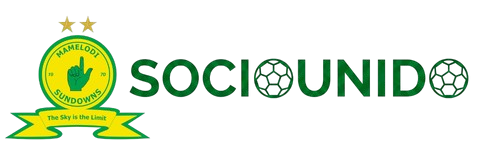
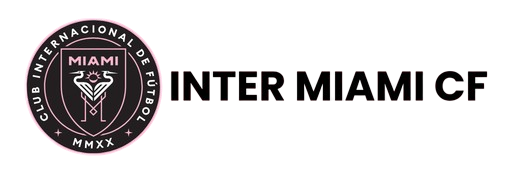
feat: colores y estilos del Inter Miami

Changed region(s): [[0.0, 0.1032, 0.9658, 0.9032]]

diff --git a/src/styles/tokens.css b/src/styles/tokens.css
@@ -3,26 +3,27 @@
   color-scheme: light;
 
   /* Colors */
-  /* Paleta de club (rama demo): Mamelodi Sundowns — #FFDC00 / #039F5D / #FFD25A.
+  /* Paleta de club (rama demo): Inter Miami CF — #231F20 / #F7B5CD / #FFFFFF.
      Ver nota "Colores por club (rama demo)" más abajo en el CLAUDE.md de este
      repo. Solo los 4 tokens de marca (text-primary/border-strong, accent,
      accent-hover) llevan el color de club exacto — el resto de la paleta son
-     grises con temperatura dorada en vez de neutros puros, pero sin
+     grises con temperatura rosada en vez de neutros puros, pero sin
      saturación de marca (misma convención que WebApp/aplicacion). */
-  --color-text-primary: #0a6b3f;
+  --color-text-primary: #231f20;
   --color-text-secondary: #5c7285;
-  --color-bg: #f8f6f1;
-  --color-surface: #fdfdfc;
-  --color-border: #ebe9e5;
-  --color-border-medium: #e4e0d8;
-  --color-border-strong: #0a6b3f;
-  --color-border-light: #f2f0ee;
-  --color-accent: #ffdc00;
-  --color-accent-hover: #ffd25a;
+  --color-bg: #f1dfe7;
+  --color-surface: #fdfcfc;
+  --color-border: #ebe5e7;
+  --color-border-medium: #e4d8dc;
+  --color-border-strong: #231f20;
+  --color-border-light: #f2eeef;
+  --color-accent: #f7b5cd;
+  --color-accent-hover: #ffffff;
+  --color-accent-dark: #d36990;
   --color-danger: #c0392b;
   --color-danger-hover: #96281b;
-  --color-row-hover: #f8f8f6;
-  --color-bg-subtle: #f3f1ed;
+  --color-row-hover: #f8f6f7;
+  --color-bg-subtle: #edd9e0;
   --color-overlay: rgba(0, 0, 0, 0.4);
 
   /* Texto fijo sobre botones de color sólido (ej. danger) */

diff --git a/src/pages/LoginPage/LoginEmpleado.jsx b/src/pages/LoginPage/LoginEmpleado.jsx
@@ -135,7 +135,7 @@ export function LoginEmpleado({ irAReclamo, onIngresoCompleto = () => {} }) {
           initial={{ height: '100%' }}
           animate={
             exiting
-              ? { height: '100%', backgroundColor: ['#039F5D', '#4A4A4A', '#F5F5F5'] }
+              ? { height: '100%', backgroundColor: ['#F7B5CD', '#4A4A4A', '#F5F5F5'] }
               : { height: animStarted ? '30%' : '100%' }
           }
           transition={
@@ -156,6 +156,14 @@ export function LoginEmpleado({ irAReclamo, onIngresoCompleto = () => {} }) {
             animate={{ scale: 1, opacity: 1 }}
             transition={{ duration: 0.5, ease: 'easeOut' }}
           />
+          <motion.p
+            className="login-band-caption"
+            initial={{ opacity: 0, y: 10 }}
+            animate={{ opacity: 1, y: 0 }}
+            transition={{ duration: 0.5, ease: 'easeOut', delay: 0.2 }}
+          >
+            By SocioUnido
+          </motion.p>
         </motion.div>
       )}
 

diff --git a/src/control-theme.css b/src/control-theme.css
@@ -27,14 +27,32 @@ body {
   min-height: 140px;
   background-color: var(--color-text-primary);
   display: flex;
+  flex-direction: column;
   justify-content: center;
   align-items: center;
+  gap: var(--space-2);
   z-index: 50;
 }
 
 .login-band-logo {
-  width: clamp(160px, 60vw, 500px);
-  max-width: 100%;
+  width: auto;
+  height: auto;
+  max-width: clamp(160px, 70vw, 420px);
+  max-height: 70%;
+}
+
+.login-band-caption {
+  margin: 0;
+  padding: 3px 10px;
+  border-radius: var(--radius-full);
+  /* fondo oscuro translúcido: el caption se mantiene legible durante toda la
+     transición de color del band al entrar a la app (negro -> gris -> casi blanco) */
+  background-color: rgba(35, 31, 32, 0.4);
+  font-size: 0.75rem;
+  font-weight: 600;
+  letter-spacing: 0.08em;
+  text-transform: uppercase;
+  color: var(--color-surface);
 }
 
 .login-form-wrapper {

diff --git a/src/pages/ControlAccesoPage/ControlAccesoPage.css b/src/pages/ControlAccesoPage/ControlAccesoPage.css
@@ -17,9 +17,9 @@
   gap: var(--space-4);
   padding: var(--space-5) var(--space-5) var(--space-6);
   background:
-    radial-gradient(120% 140% at 12% -10%, #4a3a1a 0%, transparent 55%),
-    radial-gradient(120% 140% at 88% 110%, #4a3a1a 0%, transparent 55%),
-    linear-gradient(155deg, #0d2318 0%, #07140f 42%, #040a10 100%);
+    radial-gradient(120% 140% at 12% -10%, #4a1a2b 0%, transparent 55%),
+    radial-gradient(120% 140% at 88% 110%, #4a1a2b 0%, transparent 55%),
+    linear-gradient(155deg, #230d15 0%, #14070c 42%, #100408 100%);
   color: var(--color-surface);
   border-radius: var(--radius-xl);
   box-shadow: 0 14px 30px -14px rgba(0, 0, 0, 0.55), 0 2px 6px rgba(0, 0, 0, 0.25);

diff --git a/src/components/WelcomeCard/WelcomeCard.css b/src/components/WelcomeCard/WelcomeCard.css
@@ -3,9 +3,9 @@
   overflow: hidden;
   isolation: isolate;
   background:
-    radial-gradient(120% 140% at 12% -10%, #4a3a1a 0%, transparent 55%),
-    radial-gradient(120% 140% at 88% 110%, #4a3a1a 0%, transparent 55%),
-    linear-gradient(155deg, #0d2318 0%, #07140f 42%, #040a10 100%);
+    radial-gradient(120% 140% at 12% -10%, #4a1a2b 0%, transparent 55%),
+    radial-gradient(120% 140% at 88% 110%, #4a1a2b 0%, transparent 55%),
+    linear-gradient(155deg, #230d15 0%, #14070c 42%, #100408 100%);
   color: var(--color-surface);
   border-radius: var(--radius-xl);
   padding: var(--space-6);

diff --git a/src/components/Header/Header.css b/src/components/Header/Header.css
@@ -17,7 +17,7 @@
   position: absolute;
   left: 50%;
   transform: translateX(-50%);
-  height: 80px;
+  height: 90px;
   width: auto;
 }
 
@@ -49,6 +49,6 @@
 
 @media (max-width: 480px) {
   .app-header-logo {
-    height: 44px;
+    height: 75px;
   }
 }

diff --git a/src/pages/HomePage/HomePage.css b/src/pages/HomePage/HomePage.css
@@ -37,7 +37,7 @@
   font-size: 1.1rem;
   font-weight: 700;
   text-align: center;
-  background-color: var(--color-text-primary);
+  background-color: #b8446d;
   color: var(--color-surface);
   border: none;
   border-radius: 24px;
